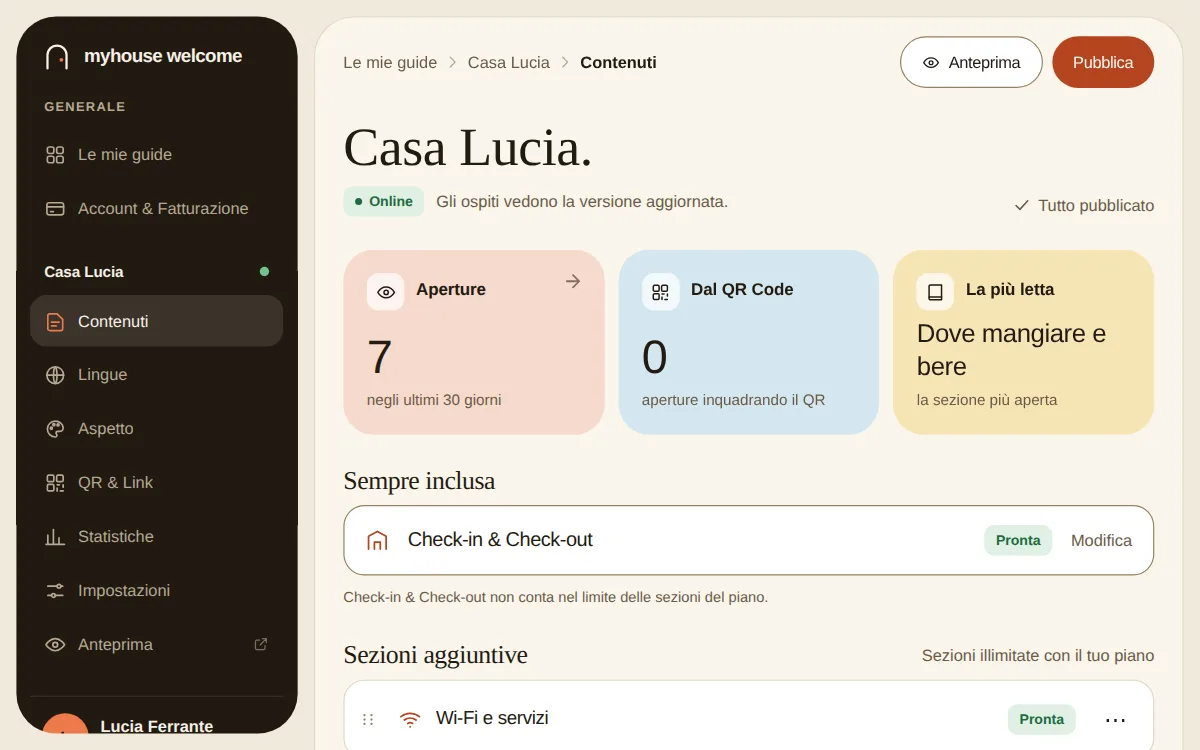
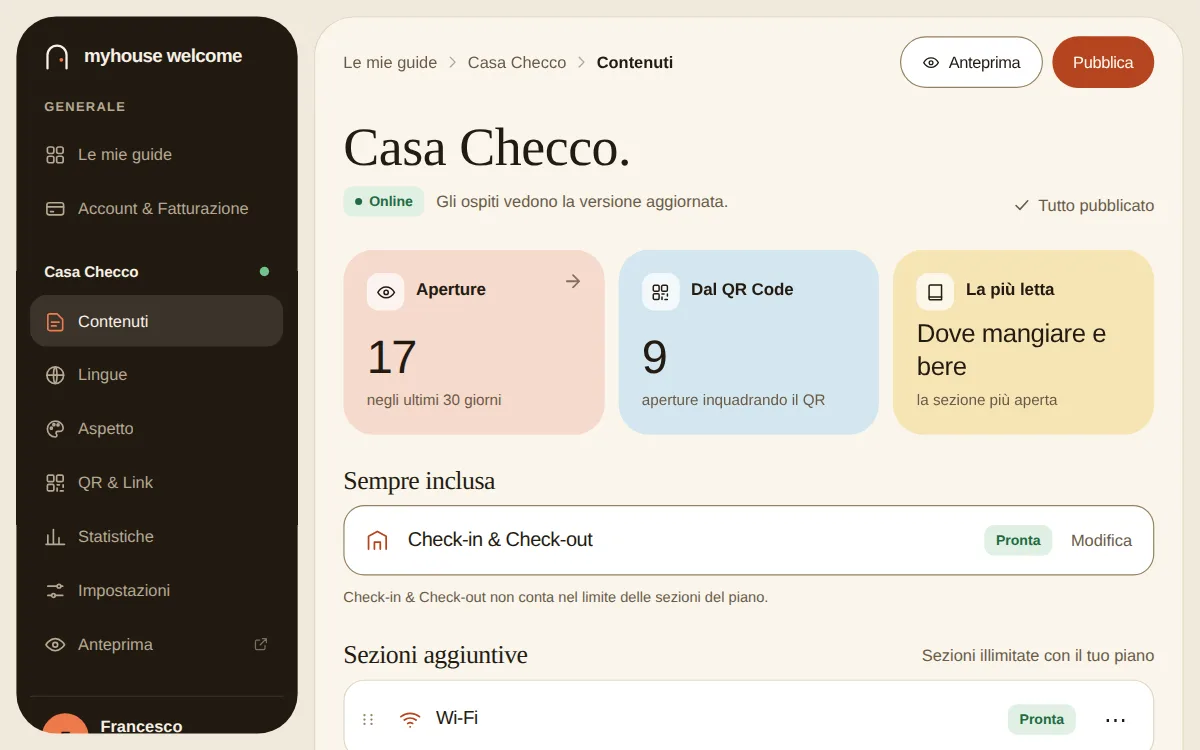
Home: telefono e schermate del pannello con Casa Checco
Il telefono della landing prende nome, foto e orario del check-in dalla
vetrina; le tre schermate di «Inizia in pochi minuti» sono rifatte dal
pannello di Casa Checco.

Claude-Session: https://claude.ai/code/session_01632JQ6euoX2zE3TcFUSpKG

diff --git a/myhouse-welcome/app/views/pub/home.php b/myhouse-welcome/app/views/pub/home.php
@@ -25,8 +25,11 @@ $demoUrl = $demo ? b() . '/g/' . Support::e($demo['slug']) . '/benvenuto' : null
 $nomeDemo = $demo['name'] ?? 'Casa Lucia';
 $fotoJpg = a('/assets/foto/borgo.jpg');
 $fotoSet = a('/assets/foto/borgo-1200.webp') . ' 1200w, ' . a('/assets/foto/borgo-2000.webp') . ' 2000w';
-$telefonoJpg = a('/assets/foto/borgo-telefono.jpg');
-$telefonoWebp = a('/assets/foto/borgo-telefono-600.webp');
+// Il telefono mostra la demo vera: con la vetrina (Casa Checco) la sua foto, altrimenti quella di Casa Lucia.
+$vetrina = $demo && (int) $demo['is_demo'] === MHW\Demo::VETRINA;
+$telefonoJpg = a($vetrina ? '/assets/foto/checco-telefono.jpg' : '/assets/foto/borgo-telefono.jpg');
+$telefonoWebp = a($vetrina ? '/assets/foto/checco-telefono-600.webp' : '/assets/foto/borgo-telefono-600.webp');
+$checkinDemo = preg_match('/^\d{2}:\d{2}$/', (string) ($demo['checkin_from'] ?? '')) ? $demo['checkin_from'] : '15:00';
 // Il prezzo di partenza, dal listino: se l'amministratore lo cambia, cambia anche qui.
 $partenza = null;
 foreach ($offers as $of) foreach ($of['options'] as $o) {
@@ -122,7 +125,7 @@ if ($dentro):
           <span class="device__title">Benvenuti<br>a <?= Support::e($nomeDemo) ?>.</span>
           <span class="device__shot"><picture><source srcset="<?= Support::e($telefonoWebp) ?>" type="image/webp">
             <img src="<?= Support::e($telefonoJpg) ?>" alt="" width="600" height="422" loading="eager" decoding="async"></picture>
-            <span class="device__pill"><i></i>Check-in dalle 15:00</span></span>
+            <span class="device__pill"><i></i>Check-in dalle <?= Support::e($checkinDemo) ?></span></span>
           <span class="device__tiles">
             <span class="t-terracotta"><?= Icon::svg('home', 16, 1.8) ?>Check-in &amp; Check-out</span>
             <span class="t-sea"><?= Icon::svg('wifi', 16, 1.8) ?>Wi-Fi</span>

diff --git a/myhouse-welcome/DA-CONFIGURARE.md b/myhouse-welcome/DA-CONFIGURARE.md
@@ -99,7 +99,7 @@ Tutte in `assets/foto/`, con **questi nomi esatti**: si caricano sopra le vecchi
 | `borgo-telefono.jpg` | il telefono nell'hero | 900×633 | **già aggiornata** con il portone di Casa Lucia. Se la cambi, rigenera come sopra |
 | `casa.jpg`, `portone.jpg`, `osteria.jpg`, `caffe.jpg`, `gelato.jpg`, `soggiorno.jpg` | foto della demo | 1600 px sul lato lungo | se le cambi con foto di Spello, ricrea i clienti di esempio |
 | `casa.jpg` | copertina della demo: splash e testa della guida | 1448×1086 | **già aggiornata** (il portone ad arco). Sul server **ricrea i clienti di esempio** per vederla: Quadro → «Elimina…», poi «Crea…» |
-| `pannello-1.webp`, `-2`, `-3` | «Inizia in pochi minuti» | 1200×750 | sono schermate vere fatte in locale (finestra larga 1024 px, la seconda 1200 px per mostrare l'anteprima). Rifalle se il pannello cambia molto. |
+| `pannello-1.webp`, `-2`, `-3` | «Inizia in pochi minuti» | 1200×750 | sono schermate vere del pannello di Casa Checco, fatte in locale (finestra larga 1024 px, la seconda 1200 px per mostrare l'anteprima). Rifalle se il pannello cambia molto. |
 | `og.jpg` | anteprima dei link condivisi | 1200×630 | generata da `strumenti/marchio.php` |
 
 Usa solo foto di cui hai i diritti, e nessun locale reale riconoscibile nella demo.

diff --git a/myhouse-welcome/CHANGELOG.md b/myhouse-welcome/CHANGELOG.md
@@ -1,5 +1,12 @@
 # Changelog — MyHouse Welcome
 
+## v2 · Home con Casa Checco (6 ottobre 2026)
+
+Nessuna migrazione.
+
+- **Telefono della home.** Quando la demo è la vetrina, il telefono mostra Casa Checco: nome, foto (`assets/foto/checco-telefono.jpg` e `checco-telefono-600.webp`) e orario del check-in presi dalla demo. Senza vetrina resta Casa Lucia.
+- **«Inizia in pochi minuti».** Le tre schermate del pannello (`pannello-1…3.webp`) sono rifatte dal pannello di Casa Checco: Contenuti, Aspetto con l'anteprima, QR & Link.
+
 ## v2 · Amministrazione → Impostazioni: Stripe, posta e foto dal pannello (6 ottobre 2026)
 
 Nessuna migrazione.
